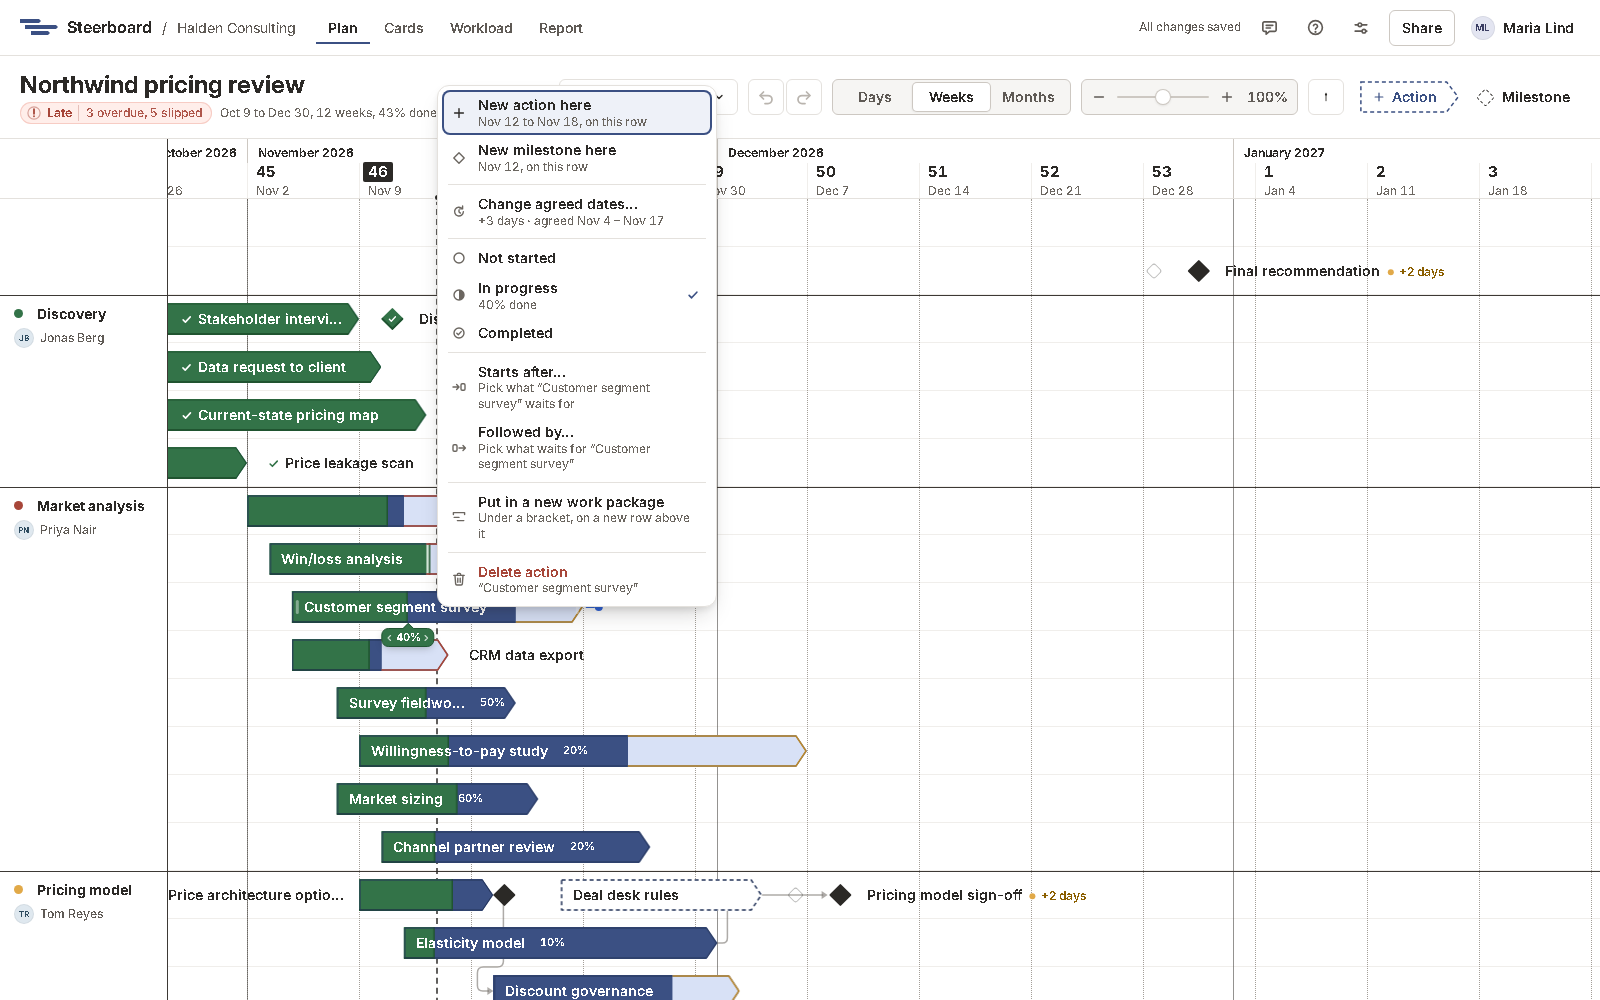
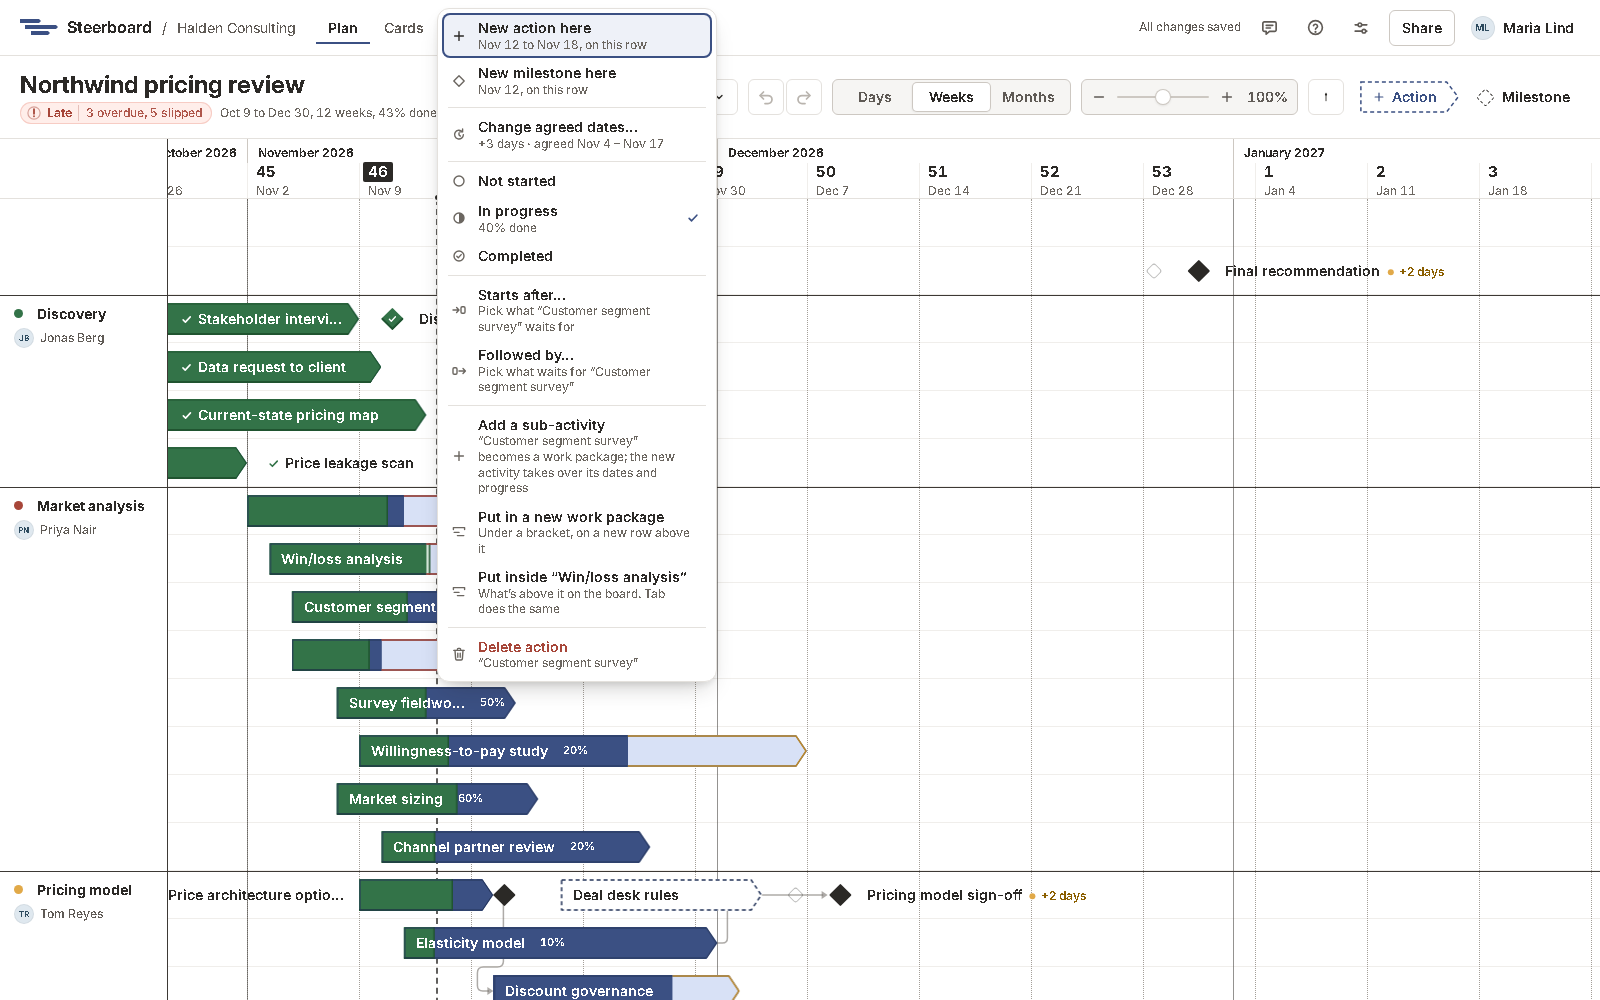
Work packages at any depth: an activity can have sub-activities, made on the board
The user: "the normal microsoft project behaviour where an activity can have
sub-activities which can have sub-activities". The plan was always a tree of
any depth; since the list beside the chart became the board, there was no
way to use it but a bracket round a selection. Now (SCENARIOS.md, WP):

- Add a sub-activity, in any activity's menu. The activity becomes a work
  package (a bracket), and the new activity inside it takes over its dates,
  progress, agreed dates and owner, so the plan reads the same. On a work
  package it adds a new draft inside.
- Drag an item over another and hold it there a moment: let go, and it's
  inside. Passing over things on the way doesn't do it.
- Tab on a selected item puts it inside what's above it on the board, one
  level deeper; Shift+Tab takes it out one level. Both are in the menu too.
  A focused item that isn't selected lets Tab through.
- Collapse a work package to one bar; what's inside leaves the board and
  its rows close up. Kept with the plan, so everyone, the plan slide and
  presentation mode show the same. Its chevron, or Expand, opens it.
- Every level is a bracket whose dates, status, progress and agreed dates
  come from what's inside it, as before.

Putting something inside an activity with work of its own (started, done or
agreed) replaces that with what's inside it: the notice says so, with Undo.

No change to stored plans: `collapsed` is an optional mark on an action.
[…]

Changed region(s): [[0.2188, 0.0, 0.4375, 0.713]]

diff --git a/pages/plan/workstreams.md b/pages/plan/workstreams.md
@@ -7,7 +7,7 @@ A plan has two ways of organising work, and they do different jobs.
   one starts. Every row belongs to one.
 - Work packages are brackets: a black bar over the work inside it, rolling up
   its dates, progress and status. A work package can sit anywhere in a
-  workstream.
+  workstream, and can hold other work packages, as deep as you need.
 
 ## Workstreams
 
@@ -37,16 +37,35 @@ whole plan.
 
 ## Work packages
 
+Any activity can have sub-activities, and those can have their own. An
+activity with something inside it is a work package.
+
 | To | Do this |
 |---|---|
-| Make one | Select the items, right-click one and choose **Put in a new work package**. It works on a single item too. A bracket goes over them on a new row above, and you name it. |
-| Unpack one | Right-click the bracket and choose **Unpack**. What was inside stays where it is. |
-| Move an item in or out | Use **Work package** in the [details panel](details.md). |
+| Break an activity down | Right-click it and choose **Add a sub-activity**. The activity becomes a bracket, and the new activity inside it takes over its dates and progress, so the plan reads the same. Name it, then add more the same way. |
+| Add an activity to a work package | Right-click the bracket and choose **Add a sub-activity**. |
+| Put a bracket round items you have | Select them, right-click one and choose **Put in a new work package**. It works on a single item too. A bracket goes over them on a new row above, and you name it. |
+| Put an item inside another | Drag it over the other and hold it there for a moment. The other is ringed and the tip says what will happen; let go. Or select it and press <kbd>Tab</kbd>: it goes inside what's above it on the board. |
+| Take an item out one level | Select it and press <kbd>Shift</kbd>+<kbd>Tab</kbd>, or right-click it and choose **Take out one level**. |
+| Collapse a work package | Right-click the bracket and choose **Collapse**. It's shown as one bar and what's inside it leaves the board. Choose **Expand**, or the small arrow before the bar, to open it again. |
+| Unpack one | Right-click the bracket and choose **Unpack**. What was inside stays where it is, one level up. |
 | Move everything in a work package | Drag the bracket. |
+
+You can also pick an item's work package under **Work package** in the
+[details panel](details.md).
 
 A work package always spans what's inside it, from the earliest start to the latest
 end; its dates follow as you move the work. Its progress is its work's,
-weighted by working days, and its status can't be set by hand.
+weighted by working days, and its status can't be set by hand. That holds at
+every level.
+
+Putting something inside an activity that has progress or agreed dates of its
+own replaces them with what's inside it from then on. Steerboard says so when
+it happens, and **Undo** takes it back.
+
+A collapsed work package is collapsed for everyone, and on the plan slide and
+in presentation mode too. The cards, the workload and the report's tables
+still list the work inside it.
 
 Which work package an item is in is separate from which row it's on: moving
 an item to another row keeps its work package.

diff --git a/pages/plan/keyboard.md b/pages/plan/keyboard.md
@@ -11,6 +11,9 @@ Everything you can drag on the board you can also do from the keyboard.
 | <kbd>←</kbd> <kbd>→</kbd> | Move the focused item a day. |
 | <kbd>Shift</kbd>+<kbd>←</kbd> <kbd>→</kbd> | Change an activity's end. |
 | <kbd>Alt</kbd>+<kbd>↑</kbd> <kbd>↓</kbd> | Put it on the row or lane above or below (a new row past the first or last). |
+| <kbd>Space</kbd> | Select the focused item. |
+| <kbd>Tab</kbd> on a selected item | Put it inside what's above it on the board, one level deeper. See [work packages](workstreams.md#work-packages). |
+| <kbd>Shift</kbd>+<kbd>Tab</kbd> on a selected item | Take it out one level. |
 | <kbd>Enter</kbd> | Rename it. |
 | <kbd>Delete</kbd> | Delete it. |
 | <kbd>Escape</kbd> | Cancel a drag, deselect, or close the details panel. |
@@ -22,7 +25,7 @@ Everything you can drag on the board you can also do from the keyboard.
 
 | Keys | What they do |
 |---|---|
-| <kbd>Alt</kbd>+<kbd>1</kbd> to <kbd>4</kbd> | Plan, Cards, People, Report. |
+| <kbd>Alt</kbd>+<kbd>1</kbd> to <kbd>4</kbd> | Plan, Cards, Workload, Report. |
 
 ## Cards
 

diff --git a/pages/plan/items.md b/pages/plan/items.md
@@ -42,7 +42,9 @@ Starts, ends and milestones always fall on working days.
 <kbd>Ctrl</kbd>-click or <kbd>Shift</kbd>-click items to select several. You
 can then drag them together, agree their dates or mark them done from the
 details panel, or right-click for **Put in a new work package** to put a
-bracket over them.
+bracket over them. To give one activity sub-activities, right-click it and
+choose **Add a sub-activity**: see
+[work packages](workstreams.md#work-packages).
 
 Click blank canvas, the time scale or the column of workstreams, or press
 <kbd>Escape</kbd>, to deselect.
